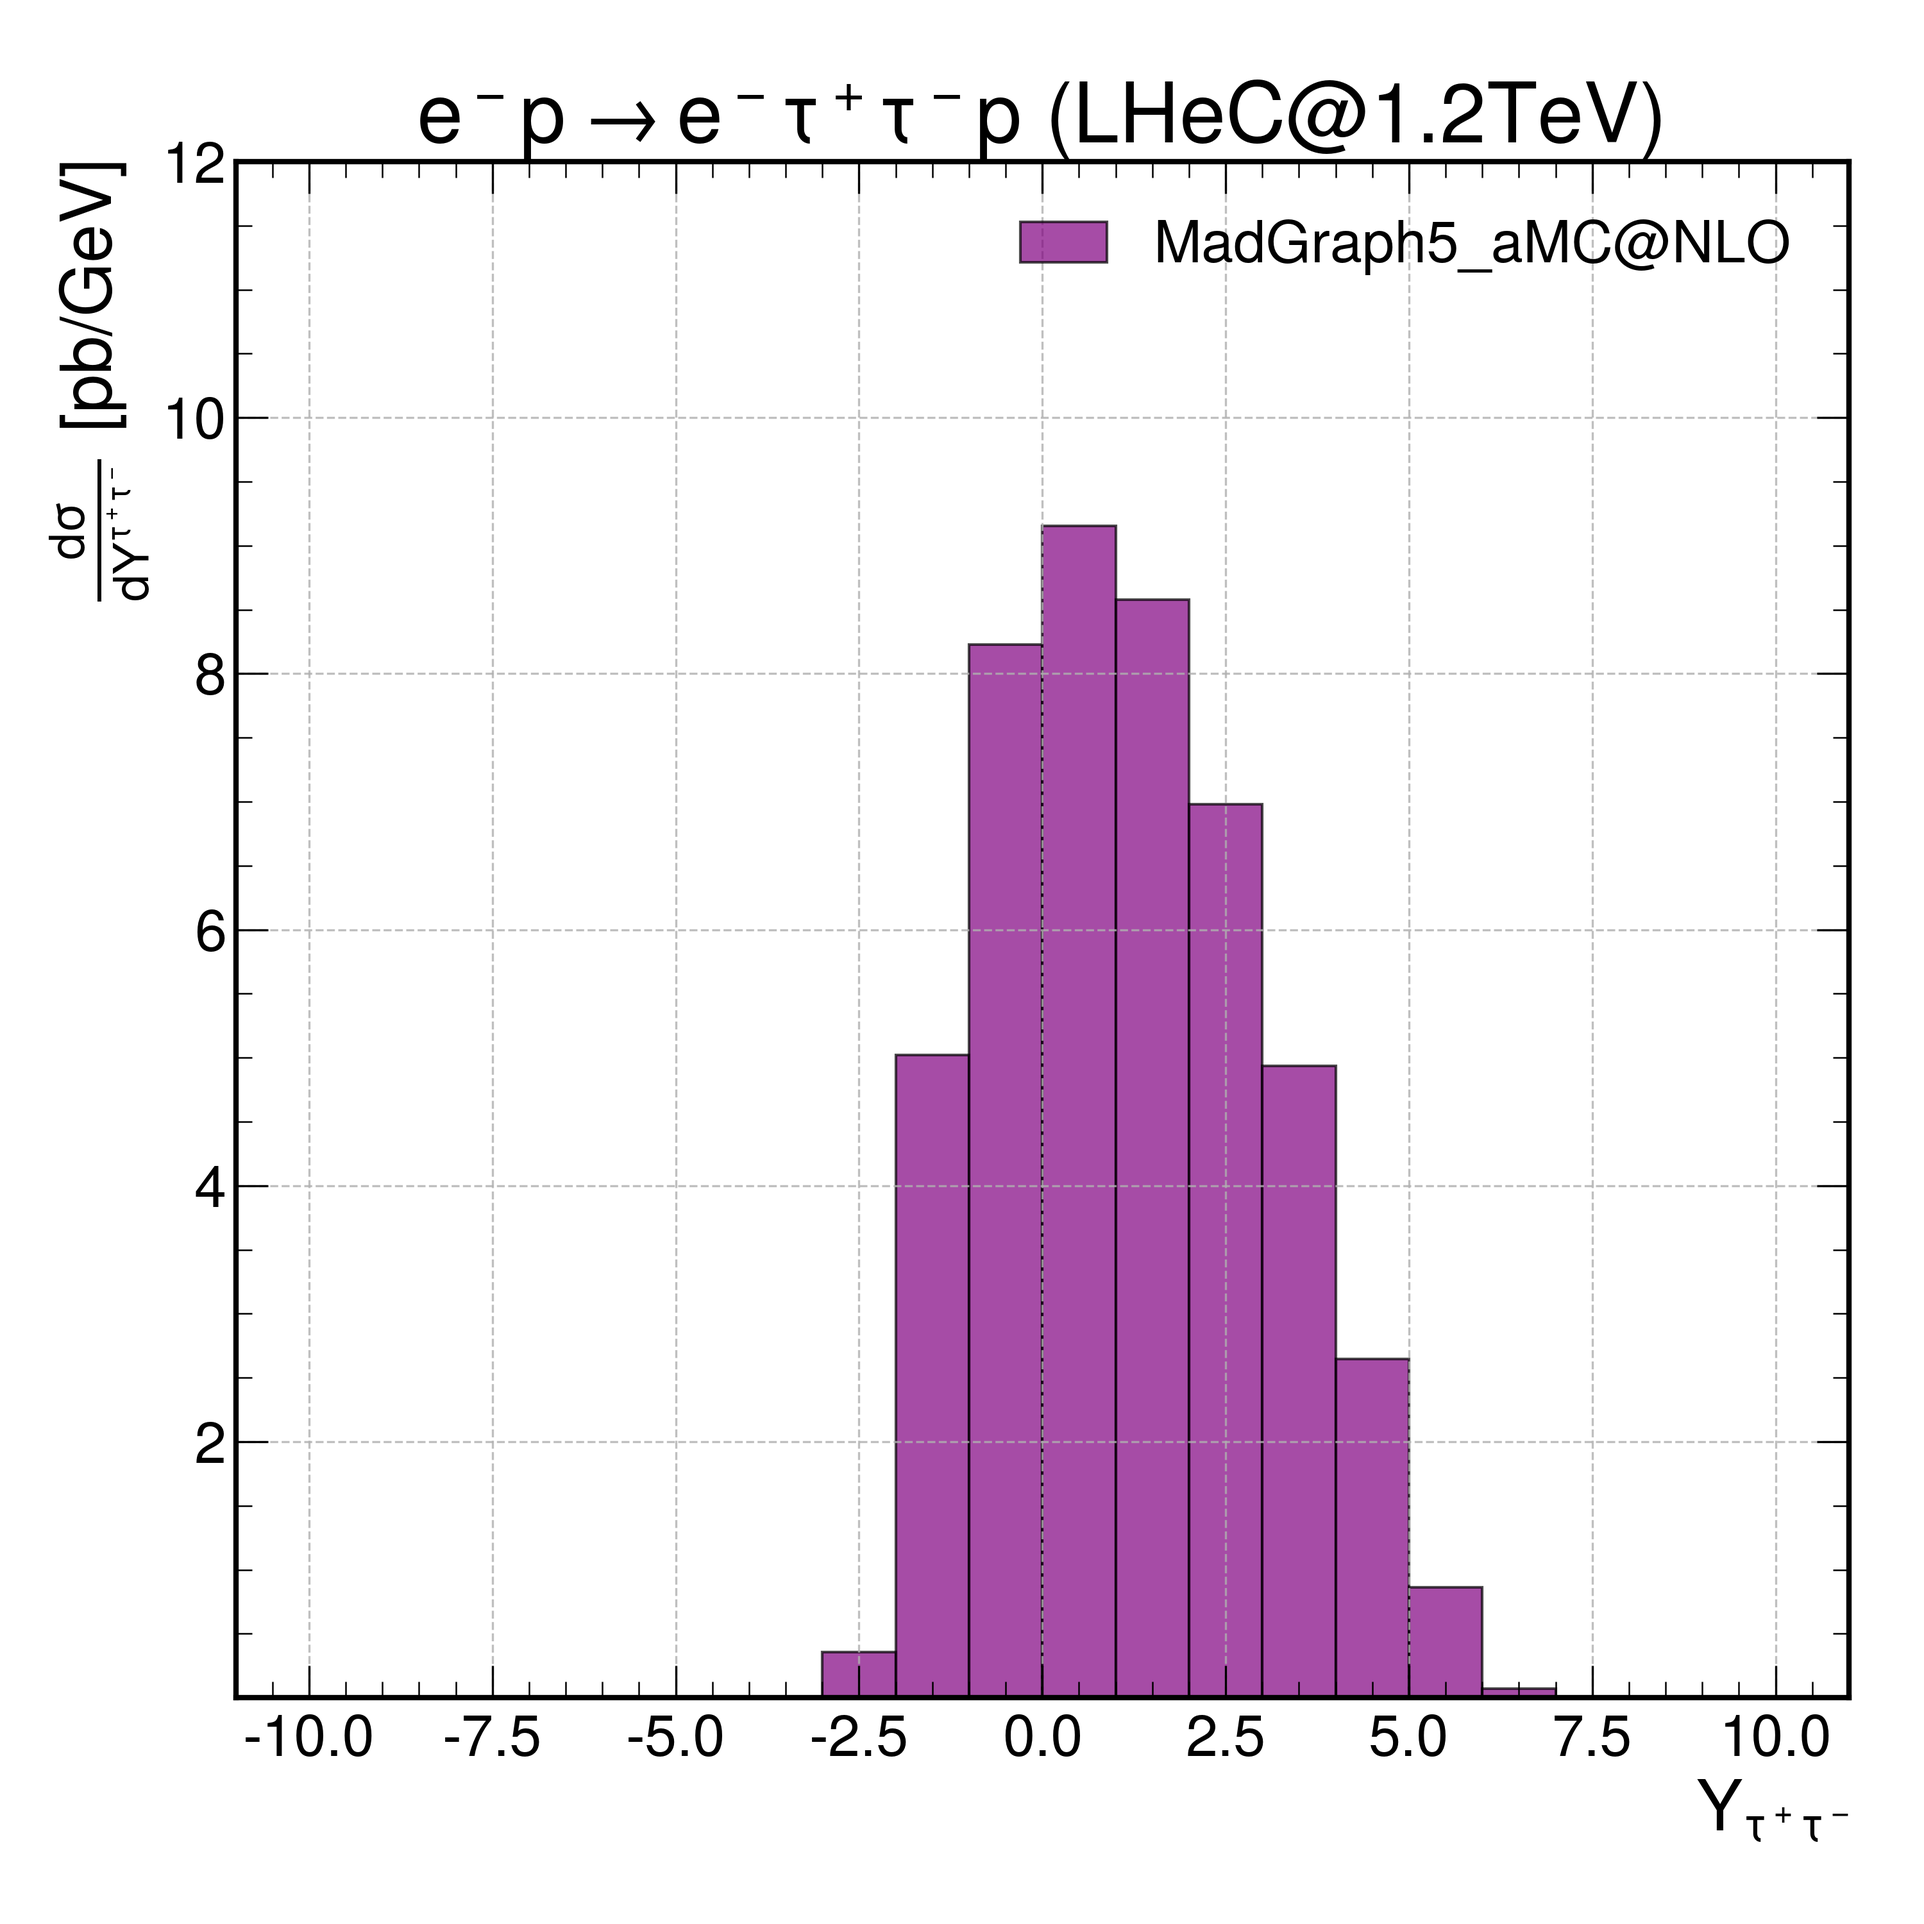
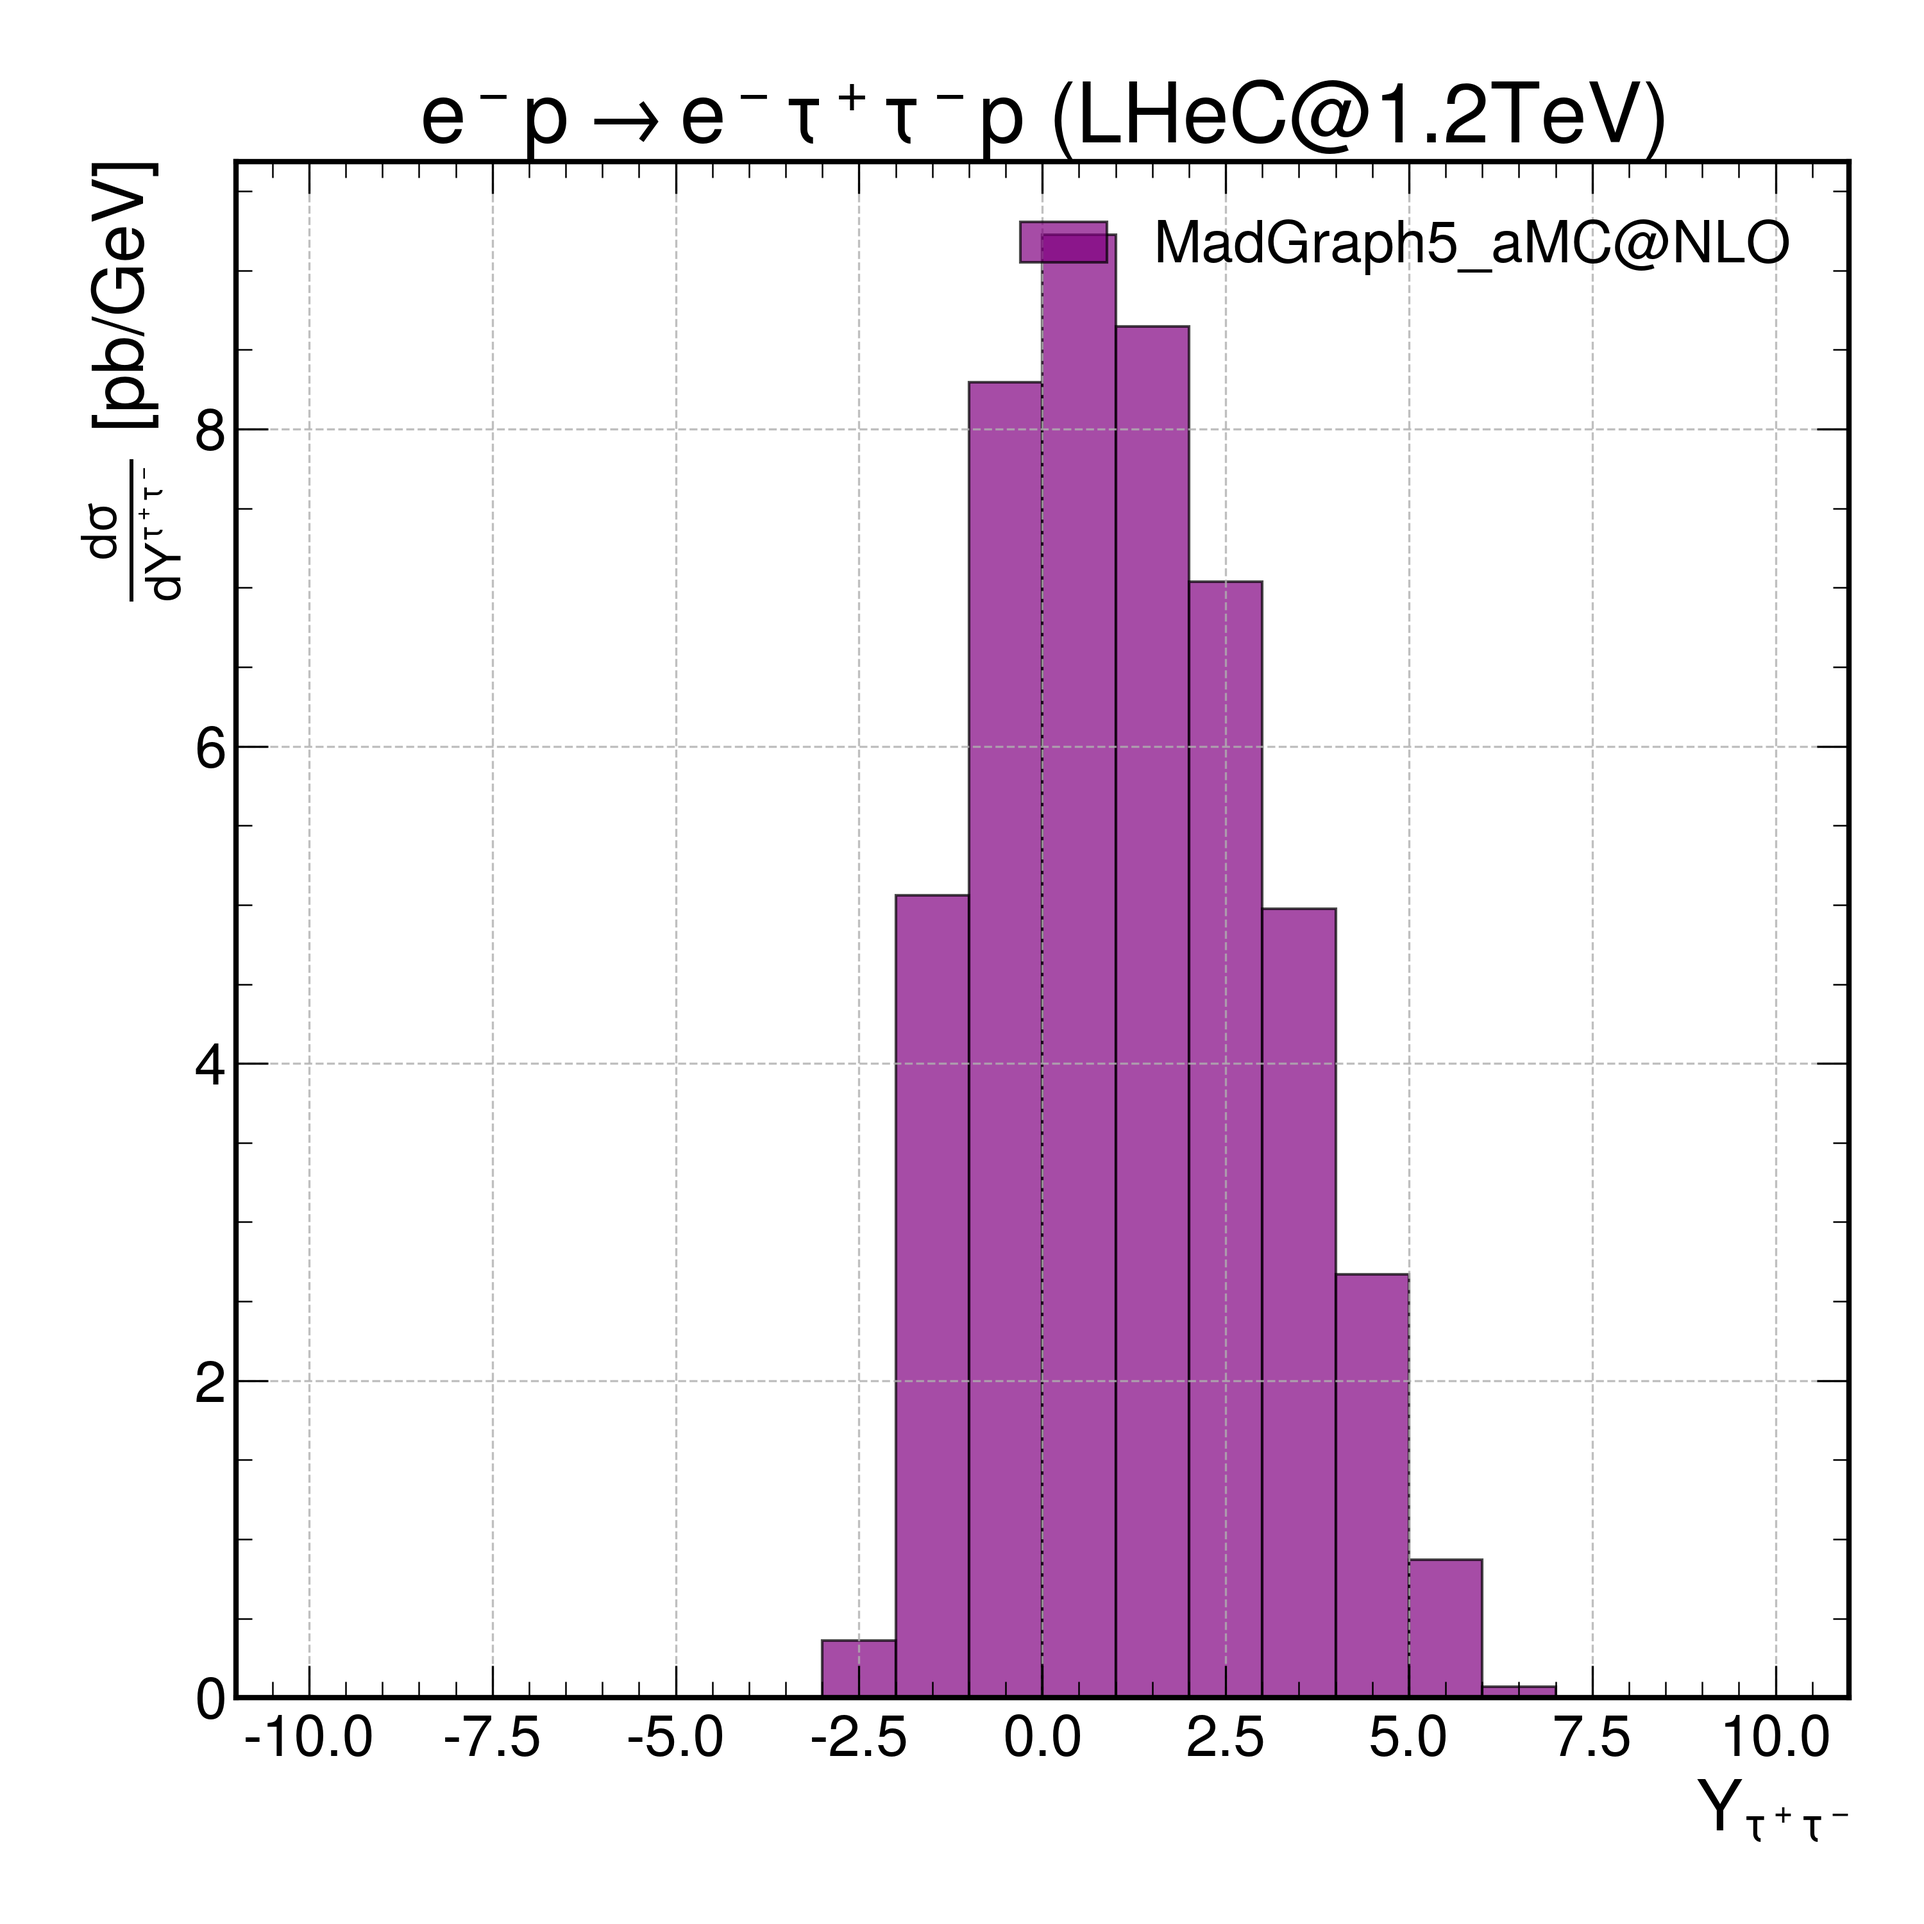
updates
updates

diff --git a/aa_to_tauta_analysis_code/aa_to_tauta_analysis_code_difeta_difpt_difY_Mtt.py b/aa_to_tauta_analysis_code/aa_to_tauta_analysis_code_difeta_difpt_difY_Mtt.py
@@ -1,0 +1,208 @@
+import matplotlib.pyplot as plt
+import numpy as np
+import os  # ✅ Added for file existence checking
+
+# Matplotlib configuration for publication-quality plots
+import mplhep as hep
+
+
+hep.style.use("CMS")
+#plt.style.use(hep.style.ROOT)
+
+'''plt.rcParams["axes.linewidth"] = 1.8
+plt.rcParams["xtick.major.width"] = 1.8
+plt.rcParams["xtick.minor.width"] = 1.8
+plt.rcParams["ytick.major.width"] = 1.8
+plt.rcParams["ytick.minor.width"] = 1.8
+
+plt.rcParams["xtick.direction"] = "in"
+plt.rcParams["ytick.direction"] = "in"
+
+plt.rcParams["xtick.labelsize"] = 15
+plt.rcParams["ytick.labelsize"] = 15
+
+plt.rcParams["legend.fontsize"] = 15
+
+plt.rcParams['legend.title_fontsize'] = 'x-large' '''
+
+
+
+
+# ✅ Function to parse the LHE file and extract kinematic distributions
+def parse_lhe_file(file_name):
+    if not os.path.exists(file_name):
+        print(f"❌ Error: File {file_name} not found!")
+        return [], [], [], [], [], []
+
+    pt_tau_plus = []
+    eta_tau_plus = []
+    pt_tau_minus = []
+    eta_tau_minus = []
+    rapidity_tau_pair = []
+    invariant_mass_tau_pair = []
+
+    with open(file_name, "r") as file:
+        in_event = False
+        tau_plus = None
+        tau_minus = None
+
+        for line in file:
+            line = line.strip()
+            if "<event>" in line:
+                in_event = True
+                tau_plus = None
+                tau_minus = None
+                continue
+            if "</event>" in line:
+                in_event = False
+                if tau_plus and tau_minus:
+                    px_pair = tau_plus["px"] + tau_minus["px"]
+                    py_pair = tau_plus["py"] + tau_minus["py"]
+                    pz_pair = tau_plus["pz"] + tau_minus["pz"]
+                    energy_pair = tau_plus["energy"] + tau_minus["energy"]
+
+                    if abs(energy_pair - abs(pz_pair)) > 1e-6:
+                        rapidity = 0.5 * np.log((energy_pair + pz_pair) / (energy_pair - pz_pair))
+                        rapidity_tau_pair.append(rapidity)
+
+                    # ✅ More robust invariant mass calculation
+                    mass_squared = energy_pair**2 - (px_pair**2 + py_pair**2 + pz_pair**2)
+                    invariant_mass_tau_pair.append(np.sqrt(max(0, mass_squared)))  # Ensures no NaN values
+
+                continue
+
+            if in_event:
+                if not line[0].isdigit() and not line[0] == '-':
+                    continue
+
+                parts = line.split()
+                if len(parts) < 10:
+                    continue
+
+                try:
+                    pdg_id = int(parts[0])
+                    px = float(parts[6])
+                    py = float(parts[7])
+                    pz = float(parts[8])
+                    energy = float(parts[9])
+                    pt = np.sqrt(px**2 + py**2)
+
+                    if abs(energy - abs(pz)) > 1e-6:
+                        eta = 0.5 * np.log((energy + pz) / (energy - pz))
+
+                        if pdg_id == 15:
+                            pt_tau_plus.append(pt)
+                            eta_tau_plus.append(eta)
+                            tau_plus = {"px": px, "py": py, "pz": pz, "energy": energy}
+
+                        if pdg_id == -15:
+                            pt_tau_minus.append(pt)
+                            eta_tau_minus.append(eta)
+                            tau_minus = {"px": px, "py": py, "pz": pz, "energy": energy}
+
+                except ValueError as e:
+                    print(f"Error parsing line: {line}, error: {e}")
+                    continue
+
+    return pt_tau_plus, eta_tau_plus, pt_tau_minus, eta_tau_minus, rapidity_tau_pair, invariant_mass_tau_pair
+
+
+
+
+# ✅ Function to plot weighted distributions (with correct separate cross-sections)
+def plot_weighted_distribution(data1, data2, bins, range, color1, color2, xlabel, ylabel, title, filename, label1, label2,
+                               integrated_cross_section_SM, integrated_cross_section_a_tau, integrated_luminosity, log_scale=False):
+    num_entries1 = len(data1)
+    num_entries2 = len(data2)
+
+    if num_entries1 == 0 or num_entries2 == 0:
+        print(f"⚠ Warning: No entries found for {label1} or {label2}. Skipping plot.")
+        return
+
+    bin_width = (range[1] - range[0]) / bins
+    event_weight1 = (integrated_cross_section_SM * integrated_luminosity) / num_entries1 if num_entries1 > 0 else 0
+    event_weight2 = (integrated_cross_section_a_tau * integrated_luminosity) / num_entries2 if num_entries2 > 0 else 0
+
+
+    plt.hist(data1, bins=bins, range=range, color=color1, alpha=0.6, label=f"{label1}",
+             weights=[event_weight1] * num_entries1, edgecolor="red", histtype="step", linewidth=2)
+
+
+    plt.hist(data2, bins=bins, range=range, color=color2, alpha=0.6, label=f"{label2}",
+             weights=[event_weight2] * num_entries2, edgecolor="blue", histtype="step", linestyle="dashed", linewidth=2)
+
+
+    plt.xlabel(xlabel)
+    plt.ylabel(ylabel)
+    plt.title(title)
+    plt.legend()
+    plt.grid(True, linestyle="--")
+    plt.tight_layout()
+
+    if log_scale:
+        plt.xscale("log")
+        plt.yscale("log")
+        plt.ylim(1e-4, 1e2)
+        plt.xlim(range[0], range[1])
+
+    plt.savefig(filename, dpi=300)
+    plt.show()
+
+
+
+# ✅ Parse both files
+file_name_SM = "/home/hamzeh-khanpour/aa_tautau_SM.lhe"
+file_name_a_tau = "/home/hamzeh-khanpour/aa_tautau_a_tau.lhe"
+
+
+pt_tau_plus_1, eta_tau_plus_1, pt_tau_minus_1, eta_tau_minus_1, rapidity_tau_pair_1, invariant_mass_tau_pair_1 = parse_lhe_file(file_name_SM)
+pt_tau_plus_2, eta_tau_plus_2, pt_tau_minus_2, eta_tau_minus_2, rapidity_tau_pair_2, invariant_mass_tau_pair_2 = parse_lhe_file(file_name_a_tau)
+
+
+
+
+# ✅ Define integrated luminosity and separate cross-sections for each file
+integrated_luminosity = 1.0  # fb^-1
+integrated_cross_section_SM = 47.27  # pb (for first file)
+integrated_cross_section_a_tau = 50.72  # pb (for second file)
+
+
+
+
+# Plotting
+fig, ax = plt.subplots(figsize=(8.0, 9.0))
+plt.subplots_adjust(left=0.15, right=0.95, bottom=0.12, top=0.95)
+
+# ✅ Plot comparisons with correct weighting
+plot_weighted_distribution(rapidity_tau_pair_1, rapidity_tau_pair_2, bins=20, range=(-10, 10), color1="purple", color2="green",
+                           xlabel=r"$Y_{\tau^+ \tau^-}$",
+#                           ylabel=r"$d\sigma_{ep \to e(\gamma\gamma \to \tau^+ \tau^-)p^{(*)}} / dY^{\tau^+ \tau^-} \quad \mathrm{[pb]}$",
+                           ylabel=r"$d\sigma/dY^{\tau^+ \tau^-} \quad \mathrm{[pb]}$",
+                           title="LHeC@1.2 TeV", filename="rapidity_tau_pair_comparison.png",
+                           label1=r"$\tau^+ \tau^-$ (SM)", label2=r"$\tau^+ \tau^- (a_{\tau} = 0.0042)$",
+                           integrated_cross_section_SM=integrated_cross_section_SM,
+                           integrated_cross_section_a_tau=integrated_cross_section_a_tau,
+                           integrated_luminosity=integrated_luminosity)
+
+
+# ✅ Plotting with correct notation for invariant mass
+fig, ax = plt.subplots(figsize=(8.0, 9.0))
+plt.subplots_adjust(left=0.15, right=0.95, bottom=0.12, top=0.95)
+
+plot_weighted_distribution(invariant_mass_tau_pair_1, invariant_mass_tau_pair_2, bins=400, range=(10, 500), color1="blue", color2="red",
+                           xlabel=r"$M_{\tau^+ \tau^-} \ \mathrm{[GeV]}$",
+#                           ylabel=r"$d\sigma_{ep \to e(\gamma\gamma \to \tau^+ \tau^-)p^{(*)}} / dM_{\tau^+ \tau^-} \quad \mathrm{[pb/GeV]}$",
+                           ylabel=r"$d\sigma/dM_{\tau^+ \tau^-} \quad \mathrm{[pb/GeV]}$",
+                           title="LHeC@1.2 TeV", filename="invariant_mass_tau_pair_comparison.png",
+                           label1=r"$\tau^+ \tau^-$ (SM)", label2=r"$\tau^+ \tau^- (a_{\tau} = 0.0042)$",
+                           integrated_cross_section_SM=integrated_cross_section_SM,
+                           integrated_cross_section_a_tau=integrated_cross_section_a_tau,
+                           integrated_luminosity=integrated_luminosity, log_scale=True)
+
+
+
+
+
+
+
+

diff --git a/aa_to_tauta_analysis_code/aa_to_tauta_analysis_code_difeta_difpt_difY.py b/aa_to_tauta_analysis_code/aa_to_tauta_analysis_code_difeta_difpt_difY.py
@@ -142,6 +142,8 @@ def plot_weighted_distribution(data, bins, range, color, xlabel, ylabel, title, 
 
 # Parse the file to get Pt, eta of tau+ and tau-, and rapidity of tau+ tau- pair
 file_name = "/home/hamzeh-khanpour/MG5_aMC_v3_5_7/aa_tautau_SM/Events/run_01/aa_to_tautau_SM.lhe"
+#file_name_a_tau = "/home/hamzeh-khanpour/MG5_aMC_v3_5_7/aa_tautau_SM/Events/run_01/a_tau-unweighted_events.lhe"
+
 pt_tau_plus, eta_tau_plus, pt_tau_minus, eta_tau_minus, rapidity_tau_pair = parse_lhe_file(file_name)
 
 # Define integrated luminosity and cross-section
